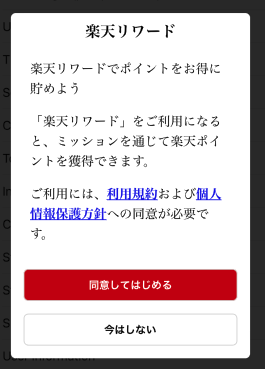
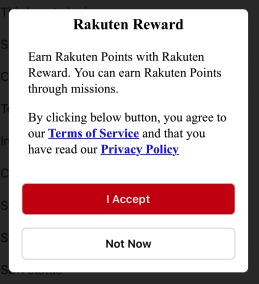
Add files via upload

diff --git a/doc/UserConsent/README.md b/doc/UserConsent/README.md
@@ -1,65 +1,64 @@
-[トップ](../../README.md#top)　>　利用規約への同意について
+[TOP](../../README.md#top)　>　Request User Consent
 
-コンテンツ
-* [概要：利用規約同意を取得する](#概要利用規約同意を取得する)<br>
-* [既設APIの変更](#既設apiの変更) <br>
-    * [userNotConsent ステータス](#user_not_consent-ステータス) <br>
-    * [新たな UserConsent callbacks 関数](#新しい-userconsent-callbacks-関数) <br>
-* [利用規約への同意をリクエストする API](#利用規約への同意をリクエストする-api)
-* [サンプルの使用例](#サンプルの使用例)
-    * [いつ利用規約への同意をリクエストする](#いつ利用規約への同意をリクエストする)
-    * [アクションを送信する](#アクションを送信する)
+Table of Contents
+* [Overview](#request-user-consent-feature-overview)<br>
+* [Changes to existing API](#changes-to-existing-api) <br>
+    * [userNotConsent status](#usernotconsent-status) <br>
+    * [UserConsent callbacks](#userconsent-callbacks) <br>
+* [Request User Consent API](#request-user-consent-api)
+* [Sample Use Case](#sample-use-case)
+    * [When to request user consent](#when-to-request-user-consent)
+    * [Example for other APIs](#example-for-other-apis)
 
 ---
+# Request User Consent feature Overview
+Since version 5.0.0, Reward SDK integrated request user consent feature. <br>
+In order to use Reward SDK's features, users have to provide their consent for Reward term of use and privacy policy first. <br>
+Below will go through how to request for user consent and the changes to existing API. <br>
 
-# 概要：利用規約同意を取得する
-Reward SDKでは新たに、利用規約同意を取得するUIをご用意しました。<br>
-Reward SDKの機能を使う前に、ユーザーがRewardの利用規約および個人情報保護方針へのご同意が必須となります。<br>
-このページはこのUI及び機能を利用するための方法と、既存のAPIの変更点についてご説明します。<br>
-<br><br>
+# Changes to existing API
+## userNotConsent status
+New Reward SDK status is introduced as mentioned [here](../APIReference/README.md#rakutenrewardstatus). <br>
+`userNotConsent` status will be returned in `RakutenReward.shared.didUpdateStatus: ((RakutenRewardStatus) -> Void)?` when the user have not provide consent yet. <br>
 
-# 既設APIの変更
-## userNotConsent ステータス
-新たにuserNotConsent Reward SDK ステータスを導入しました。[RakutenRewardStatus](../APIReference/README.md#rakutenrewardstatus) <br>
-ユーザーがまだ利用規約に同意していない場合に、`userNotConsent` ステータスは `RakutenReward.shared.didUpdateStatus: ((RakutenRewardStatus) -> Void)?` に返します。<br>
+This status will be updated when startSession API is called and if user has not agree to Reward SDK's terms and condition. <br>
 
+## UserConsent callbacks
+New callback is added to RakutenReward as mentioned [here](../APIReference/README.md#rakutenreward). <br>
+`RakutenReward.shared.didPresentConsentUI` will be triggered whenever a consent dialog is presented.
+`RakutenReward.shared.didDismissConsentUI` will be triggered whenever a consent dialog is dismissed.
 
-## 新しい UserConsent callbacks 関数
-新たな関数が [Rakuten Reward](../APIReference/README.md#rakutenreward) に加わりました。<br>
-利用規約への同意ダイアログを表示すると、`RakutenReward.shared.didPresentConsentUI` の実装を呼び出します。
-利用規約同意ダイアログを閉じた場合、この `RakutenReward.shared.didDismissConsentUI` の実装を呼び出します。
-<br><br>
-
-# 利用規約への同意をリクエストする API
-利用規約への同意をリクエストする以下のAPIをご利用いただけます。
+# Request User Consent API
+New API is introduced to request for user consent. 
 
 ```Swift
 RakutenReward.shared.requestForConsent { status in
     // Check consent status
 }
 ```
-ユーザーがまだ、利用規約に同意していない場合に、同意ダイアログを表示します。
+If user have not provide consent yet, a consent dialog will be shown. 
 
-![同意ダイアログ](consent-dialog.png)
+![Consent Dialog](consent-dialog.png)
 
-ユーザーの反応によって、以下のステータスを得られます。
+Depends on user action, will the following consent status will be return in the callback.
 
-| RakutenRewardConsentStatus | 説明 |
+| RakutenRewardConsentStatus | Description |
 | --- | --- |
-| consentProvided | 同意しました |
-| consentNotProvided | 同意していません |
-| consentFailed | APIエラーが発生しました |
-| consentProvidedRestartSessionFailed | 同意しましたが、SDKセッションの再開に失敗しました |
+| consentProvided | User already provide consent |
+| consentNotProvided | User have not provide consent |
+| consentFailed | There is some error with API request |
+| consentProvidedRestartSessionFailed | User provided consent but failed to restart SDK session |
 
-ユーザーがすでに利用規約を同意していた場合、ダイアログを表示せずに`consentProvided`ステータスがコールバックに返します。
-<br><br>
+If user already provided consent, the consent dialog will not be shown and the callback will be triggered with `consentProvided` status.
 
-# サンプルの使用例
-## いつ利用規約への同意をリクエストする
-`RakutenReward.shared.requestForConsent()` を呼ばない場合、同意ダイアログを表示しません。<br>
-アプリ開発者は、いつ同意ダイアログを表示するのか？を決定します。
+# Sample Use Case
+## When to request user consent
+Reward SDK will not display consent dialog on behalf of client app unless `RakutenReward.shared.requestForConsent()` API is called. <br>
+So client app developers can decide which screen to display the consent dialog.
 
-> `RakutenReward.shared.openPortal()` API は、利用規約に同意していない場合を処理<br>
+> `RakutenReward.shared.openPortal()` API will handle the case where user haven't provide consent. <br>
+> After user provided the consent will proceed to open SDK portal page. <br>
+> If user don't provide consent, SDK portal page will not be shown.
 
 Sample code on when to request user consent
 ```Swift
@@ -75,9 +74,10 @@ Sample code on when to request user consent
     }
 ```
 
-## アクションを送信する
-利用規約への同意がない場合、このAPIは失敗となります。 <br>
-次のコード スニペットは、この状況を処理します。
+## Example for other APIs
+
+Most of the SDK APIs will fail if SDK status is not Online. This includes the situation where SDK Status is .userNotConsent.
+One of the way to handle is with the code below
 
 ```Swift
 func exampleLogAction() {
@@ -90,10 +90,8 @@ func exampleLogAction() {
 }
 ```
 
-まだ同意がない場合、ダイアログを表示します。その後、ユーザーが同意した際にアクションを送信します。
-
-ユーザーがすでに利用規約を同意していた場合でも、`RakutenReward.shared.requestForConsent()`APIを呼び出せます。ダイアログを表示せずに、`consentProvided`ステータスがコールバックに返します。
+Even if user already provided consent, it is still safe to call `RakutenReward.requestForConsent()` API as consent dialog will not be shown and `consentProvided` status will be return in the callback.
 
 ---
-言語 :
-> [![en](../../lang/en.png)](../../consent/README.md)
+LANGUAGE :
+> [![ja](../lang/ja.png)](../ja/UserConsent/README.md)
